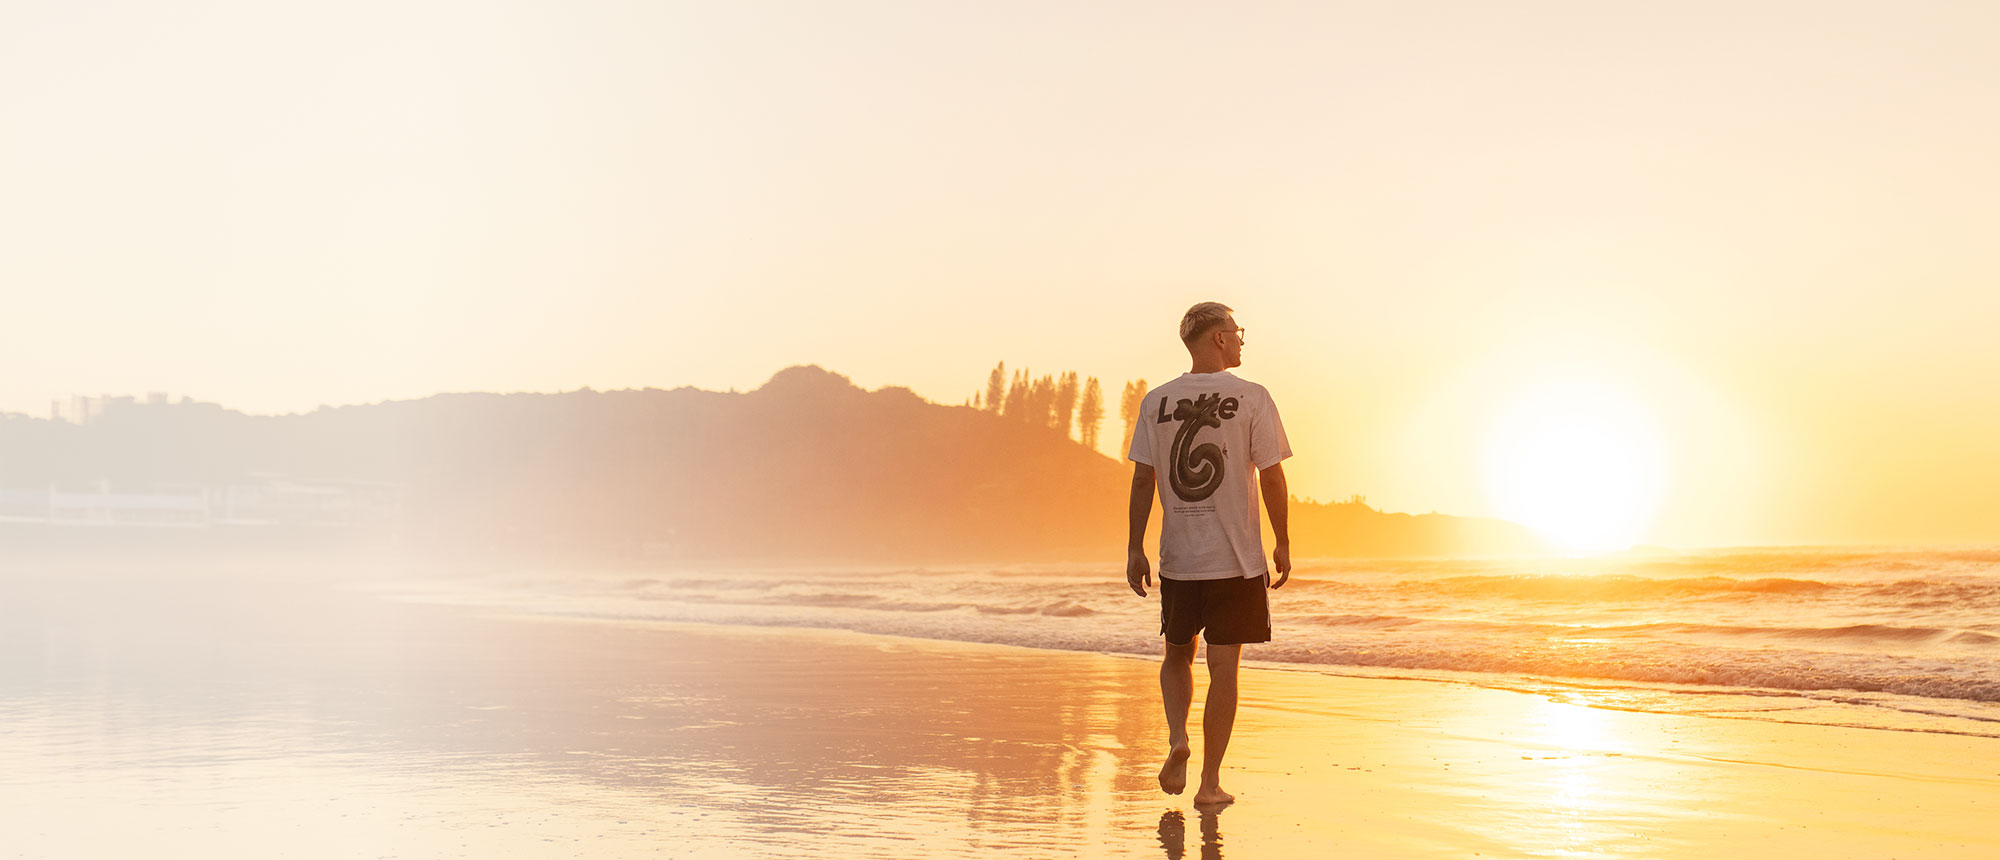
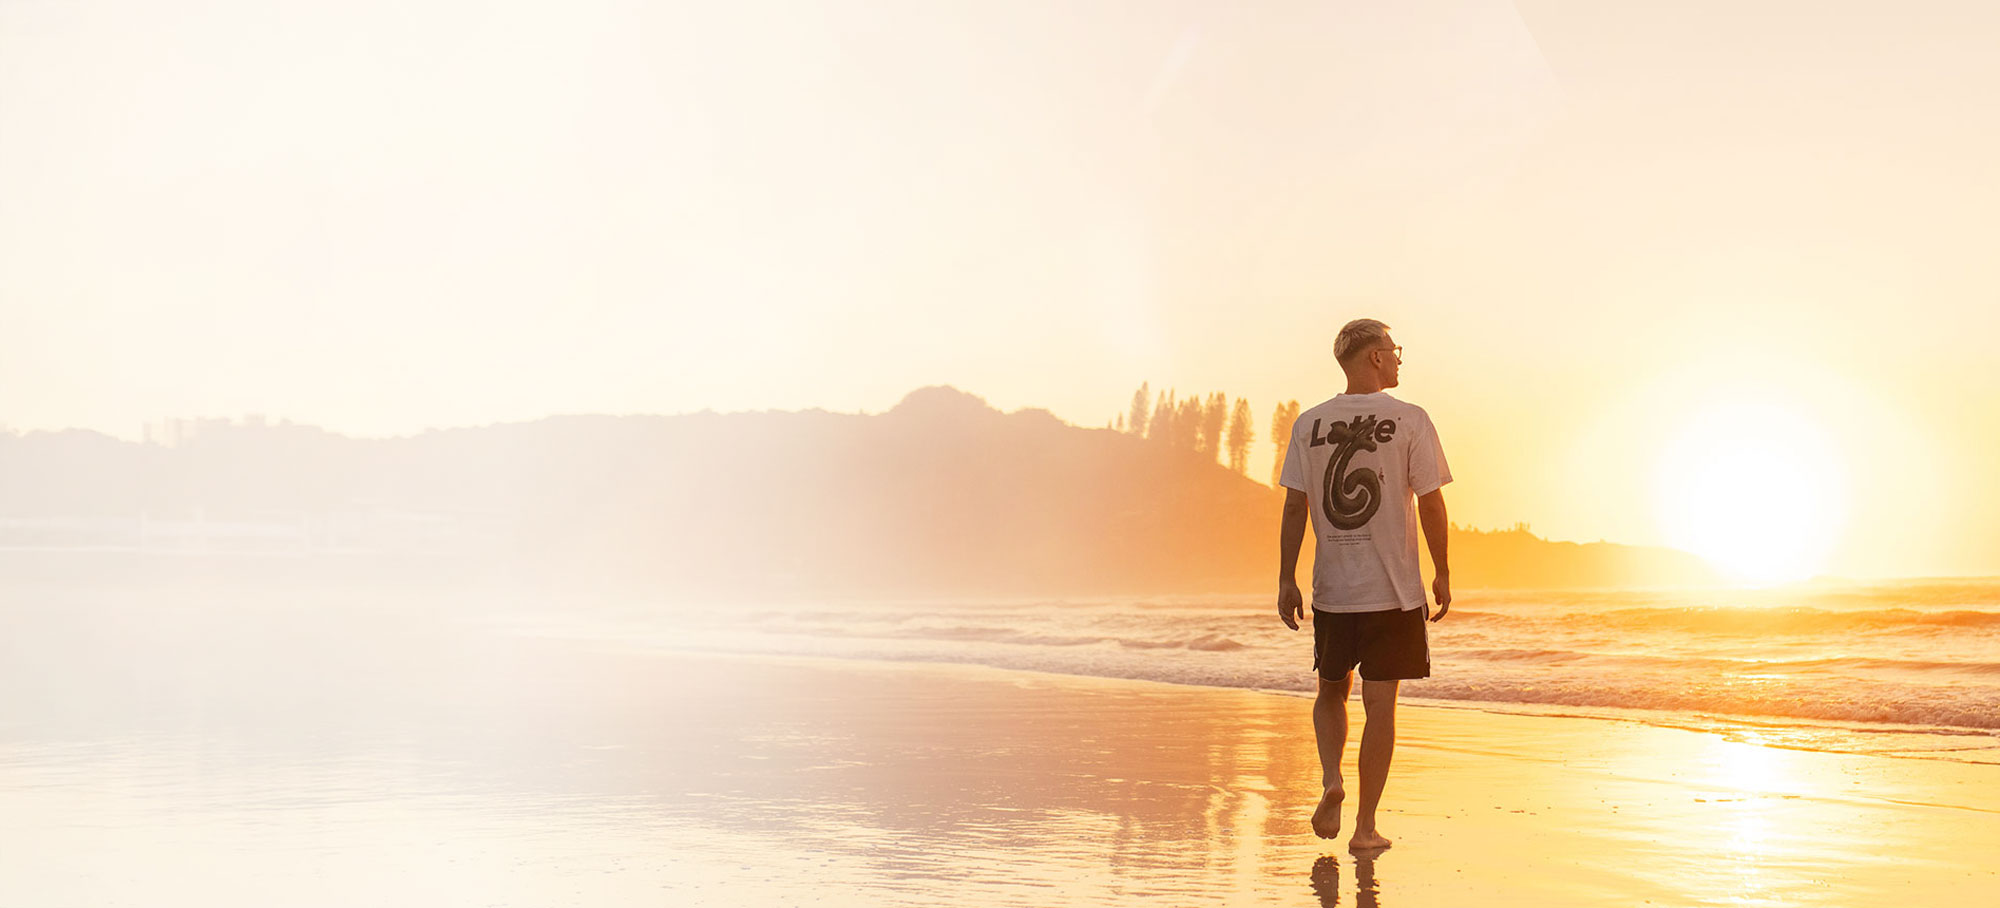
mentoring page updates

diff --git a/src/pages/Mentoring.jsx b/src/pages/Mentoring.jsx
@@ -46,6 +46,7 @@ const PHILO_URL = "/philosophie";
 const REPO_RAW =
   "https://raw.githubusercontent.com/Florinho34/Website-FL-Personenmarke/main/public/images/";
 const IMG_HERO = REPO_RAW + "mentoring-florian-lingner-hero.jpg";
+const IMG_HERO_MOBILE = REPO_RAW + "mentoring-florian-lingner-hero-mobile.jpg";
 const IMG_KIT = REPO_RAW + "mentoring-starter-kit-workbook.jpg";
 const IMG_PORTRAIT = REPO_RAW + "florian-lingner-mentor-portrait.jpg";
 
@@ -150,7 +151,7 @@ html{scroll-behavior:smooth; scroll-padding-top:90px;}
 .fl-ment .hero-inner{width:100%; padding-top:124px; padding-bottom:104px;}
 .fl-ment .hero-text{max-width:600px;}
 .fl-ment .hero .eyebrow{display:inline-block; font-size:13px; font-weight:600; letter-spacing:.16em; text-transform:uppercase; color:var(--orange); margin-bottom:22px;}
-.fl-ment .hero h1{font-weight:800; letter-spacing:-.03em; line-height:.98; font-size:clamp(42px,6.6vw,86px); text-transform:uppercase; color:var(--ink);}
+.fl-ment .hero h1{font-weight:800; letter-spacing:-.03em; line-height:.98; font-size:clamp(40px,5vw,64px); text-transform:uppercase; color:var(--ink);}
 .fl-ment .hero h1 .em{background:linear-gradient(100deg,#FF4D00 0%,#FF7A33 100%); -webkit-background-clip:text; background-clip:text; -webkit-text-fill-color:transparent; font-style:italic; padding-right:.12em; -webkit-box-decoration-break:clone; box-decoration-break:clone;}
 .fl-ment .hero .lead{margin-top:26px; max-width:54ch; font-size:clamp(16px,1.55vw,19.5px);}
 .fl-ment .cta-row{display:flex; gap:14px; flex-wrap:wrap; margin-top:38px;}
@@ -170,6 +171,8 @@ html{scroll-behavior:smooth; scroll-padding-top:90px;}
 .fl-ment .ql li:last-child{margin-bottom:0;}
 .fl-ment .ql li::before{content:""; position:absolute; left:0; top:11px; width:13px; height:2px; background:var(--ink); border-radius:2px;}
 .fl-ment .card.neg .ql li::before{background:var(--warmgrau);}
+/* "Für dich, wenn" (positive Karte): Häkchen statt Minus-Strich */
+.fl-ment .card:not(.neg) .ql li::before{left:2px; top:3px; width:6px; height:11px; background:none; border:solid var(--orange); border-width:0 2.5px 2.5px 0; border-radius:0; transform:rotate(45deg);}
 
 /* ---- Wie es läuft ---- */
 .fl-ment .flow-grid{display:grid; grid-template-columns:1.08fr .92fr; gap:clamp(26px,4.4vw,58px); align-items:center; margin-top:44px;}
@@ -255,10 +258,11 @@ html{scroll-behavior:smooth; scroll-padding-top:90px;}
 
 /* ---- Mobile ---- */
 @media (max-width:880px){
-  .fl-ment .hero{min-height:clamp(500px,140vw,720px); align-items:flex-start;}
-  .fl-ment .hero-inner{padding-top:98px; padding-bottom:48px;}
+  .fl-ment .hero{min-height:clamp(520px,135vw,720px); align-items:flex-start;}
+  .fl-ment .hero h1{font-size:34px;}
+  .fl-ment .hero-inner{padding-top:96px; padding-bottom:clamp(176px,46vw,256px);}
   .fl-ment .hero-text{max-width:none;}
-  .fl-ment .hero-bg img{object-position:center 28%;}
+  .fl-ment .hero-bg img{object-position:center bottom;}
   .fl-ment .hero-overlay{background:linear-gradient(to bottom, var(--creme) 6%, rgba(244,241,235,.9) 30%, rgba(244,241,235,.42) 48%, rgba(244,241,235,0) 64%);}
   .fl-ment .duo{grid-template-columns:1fr;}
   .fl-ment .flow-grid{grid-template-columns:1fr; gap:30px;}
@@ -369,11 +373,14 @@ export default function Mentoring() {
       <header className="hero">
         <div className="hero-bg" aria-hidden="true">
           {heroImgOk && (
-            <img
-              src={IMG_HERO}
-              alt="Florian Lingner im Mentoring-Gespräch"
-              onError={() => setHeroImgOk(false)}
-            />
+            <picture>
+              <source media="(max-width:880px)" srcSet={IMG_HERO_MOBILE} />
+              <img
+                src={IMG_HERO}
+                alt="Florian Lingner im Mentoring-Gespräch"
+                onError={() => setHeroImgOk(false)}
+              />
+            </picture>
           )}
         </div>
         <div className="hero-overlay" aria-hidden="true" />